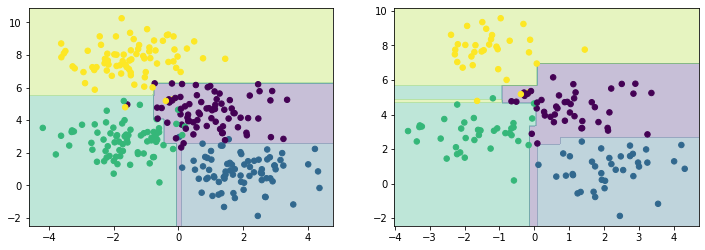
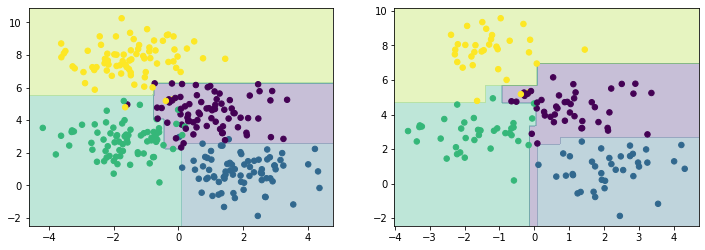
deploy: d3bfcc59244902824ea93d0028b38ea207dd7879

Changed region(s): [[0.5617, 0.336, 0.7177, 0.42], [0.2184, 0.56, 0.2809, 0.896]]

diff --git a/searchindex.js b/searchindex.js
@@ -1,1 +1,1 @@
-Search.setIndex({docnames:["bayes_exercise","bayes_theorem","bayesian_model_selection","classification","clustering","decision_trees","dimensionality_reduction","example","gmm","gradient_boosting","intro","k_means","likelihood","likelihood_code","nested_sampling","pca","pca_exercise","random_forest","some_stats","wine_pca","zreferences"],envversion:{"sphinx.domains.c":2,"sphinx.domains.changeset":1,"sphinx.domains.citation":1,"sphinx.domains.cpp":3,"sphinx.domains.index":1,"sphinx.domains.javascript":2,"sphinx.domains.math":2,"sphinx.domains.python":2,"sphinx.domains.rst":2,"sphinx.domains.std":1,"sphinx.ext.intersphinx":1,sphinx:56},filenames:["bayes_exercise.ipynb","bayes_theorem.md","bayesian_model_selection.ipynb","classification.md","clustering.md","decision_trees.ipynb","dimensionality_reduction.md","example.md","gmm.ipynb","gradient_boosting.md","intro.md","k_means.ipynb","likelihood.md","likelihood_code.ipynb","nested_sampling.ipynb","pca.ipynb","pca_exercise.ipynb","random_forest.ipynb","some_stats.ipynb","wine_pca.ipynb","zreferences.md"],objects:{},objnames:{},objtypes:{},terms:{"001":[0,14,18],"00259":20,"003193":20,"007":18,"008":18,"011":18,"01621459":20,"0184779":15,"022":20,"038":18,"038281944596418975":13,"0x7fd50d794650":16,"100":[13,17,19],"1016":20,"1039":20,"10476572":20,"1063":20,"10666":20,"1080":20,"1090":20,"1103":20,"1107":20,"1119":20,"113":20,"1134":20,"116":20,"1161":20,"122":20,"127":20,"1337":20,"1352":14,"1400":16,"14e":2,"150":5,"154":19,"164":20,"175":19,"1835238":20,"193":20,"1944":20,"1995":20,"1998":20,"199997":19,"1st":20,"200":[11,15],"2005":20,"2006":20,"2010":20,"2013":20,"2014":20,"2015":20,"2016":20,"2017":20,"2018":20,"2019":20,"2367":20,"24443085":19,"248":20,"248101":20,"2812":20,"2ln":14,"2nd":20,"300":[8,11,17],"300003":19,"3254017":20,"327":20,"32862557":15,"379":19,"395":20,"399994":19,"4526":20,"45713481":19,"49566380819342426":13,"496":18,"513":19,"525":13,"5281":20,"531":20,"538":18,"590000":19,"610001":19,"63175889":19,"639999":19,"648":20,"690002":19,"73170985":19,"735":20,"739990":19,"7489":14,"7625315":15,"773":20,"80571813":19,"825926":20,"86427209":19,"86e":2,"880005":19,"91194903":19,"919998":19,"932":13,"93701181":19,"94446029":15,"946":18,"96043195":19,"97227143":19,"98246275":19,"99139934":19,"9992006":19,"break":11,"case":[11,12],"class":[14,16],"default":14,"final":[1,4,6,14],"float":[13,18],"function":[0,1,11,12,13,14,18,19],"import":[0,2,5,6,8,11,12,13,14,15,16,17,18,19],"new":[3,5,10,19],"return":[2,11,13,14,16,18,19],"throw":16,"true":[1,2,11,13,14,18],"try":[3,6,16],"while":[0,2,11,12,16,18,19],For:[1,2,3,4,12,14,16,19],Not:1,One:0,The:[0,2,3,6,8,11,12,14,15,16,17,18,19,20],Then:[10,14],There:[0,11],These:[0,5,11,12,14,15,19],________________________________________________________________________________:0,a_rang:13,abil:2,abl:4,about:[0,1,2,5,8,11,15,17,18,19],abov:[2,5,8,16,18,19],absolute_sigma:18,access:11,account:2,achiev:[1,11,12,16,19],acid:19,added:18,addit:[2,14,16],addition:[10,19],affect:12,africa:19,against:[1,2,19],agre:2,agreement:[12,18],aim:[4,6,15,18],aip:20,air:20,algorithm:[1,11,14,15,18],align:5,all:[0,1,8,11,14,17,19],allow:[0,6,14],along:5,alpha:[11,15,19],alreadi:5,also:[0,16,19],although:[11,19],alwai:[10,11],ampl:20,anal:20,analys:18,analysi:[0,2,6,13,14,16,19,20],analyt:[2,6],andrew:10,ani:[2,8,10],anim:5,annot:15,anoth:[10,16],appear:[12,19],append:0,appl:20,appli:[4,6,11,14,17,19,20],applic:[0,10,15,17,18,19],approach:[0,1,4,8,11,15,18,20],arang:19,arbitrari:8,area:[5,17],arg:[13,14,18],argentina:19,argument:[14,16],around:2,arrai:[11,14,16,19],arrang:3,array_lik:[13,14,18],arrow:15,arrowprop:15,arrowstyl:15,artihmet:11,ask:5,aspect:[0,1,12,19],assign:[5,8,11],assist:15,assoc:20,associ:[1,8,12,14],assum:[1,12],assumpt:11,assur:19,atom:0,attempt:8,attent:19,attribut:14,australia:19,automat:19,avail:[0,4,10],averag:17,awar:11,ax0:19,ax1:19,ax2:19,axes:[5,15,17],axesimag:16,axhlin:19,axi:[5,8,11,15,19],back:[10,14],background:[0,6,14,16,18],bag:17,balanc:16,bar:19,bare:[1,14],base:[2,5,8,17],basi:11,basic:18,bay:[0,14,20],bayes_factor:14,bayesian:[1,14,20],bear:2,becaus:14,becom:12,been:1,befor:[3,4,6,11,18],beforehand:11,begin:[5,11],behind:[1,16],being:[0,2,14],belong:11,below:[0,1,2,5,8,10,11,12,14,18,19],benefit:18,best:[8,16,18],better:[0,1,2,11,17],between:[0,1,8,12,14,15,16,18,19],big:[12,18],bigg:12,bilay:20,binari:5,biolog:0,bit:[5,13],bkg:0,blob:8,blue:13,bnp:[16,20],book:10,both:[5,18],bound:[0,14],boundari:[8,11],briefli:10,bro:[15,19,20],broader:14,bs14:[15,19,20],build:[0,5],built:5,burca:20,buzzfe:5,c3ay41907j:20,cach:0,call:[5,12],campbel:[0,20],can:[0,1,2,3,5,8,10,11,12,14,15,16,17,18,19],cancel:1,cannot:[1,11,14],capabl:[8,19],captur:19,carri:18,cartesian:11,caus:11,center:[8,11,12,17],centr:[11,18],certain:[1,5,20],certainti:[1,8],chanc:[4,6],chang:[0,12,14],charact:5,characterist:11,check:11,chi:12,chile:19,chilean:19,choos:8,circul:20,circular:8,circulationaha:20,citricacid:19,classif:[5,17],classifi:[5,19],clear:[5,12,19],click:16,close:11,closer:[11,17],cluster:[8,19],cluster_centers_:11,cluster_std:[8,11,17],cmap:[13,16],co2:19,code:[0,5,11,12],collabor:10,colleagu:10,colloid:20,color:19,colorbar:13,column:19,combin:[6,16,17,19],come:[10,16],comment:16,common:[2,14],commonli:17,compar:[0,1,2,16],comparison:[0,1,2,14],compat:14,complet:[5,19],complex:[0,2,11,14,20],compon:[6,16,19,20],components_:[15,19],composit:7,computation:1,conceptu:19,conden:20,confer:20,consid:[1,2,5,16,18,19],consist:11,constrain:[12,13],contain:19,contant:19,content:19,contourf:13,contribut:19,converag:8,converg:[11,14],convert:16,convolut:16,correct:[2,17],correl:19,could:[0,1,16,19],countri:19,cours:12,covari:19,covariance_typ:8,covarience_typ:8,cover:10,crab:[16,20],creat:14,criteria:14,criterion:5,cross:19,crystallographi:20,css:[0,20],csv:19,cubitt:20,cumsum:[16,19],cumul:[16,19],curve_fit:[2,12,18],cut:5,d7613098d347:5,dat:0,data:[0,1,2,3,4,5,6,8,11,12,14,15,16,17,18,19,20],data_0:0,data_3:0,data_:0,datafram:19,datapoint:4,dataset:[0,5,6,8,11,16,17,18,19,20],ddof:19,decis:[3,17],decisiontreeclassifi:5,decomposit:[15,16,19],decreas:0,deep:15,def:[2,11,13,14,18,19],defin:[5,8,11,14,16,19],definit:16,degre:0,densiti:[0,19],depend:0,depth:[0,5],describ:[0,1,5,15,16,18,19],descript:[0,18,19],design:[5,6],despit:1,detail:[5,6,10,14,16,19],detect:[6,7,19],determin:[0,1,3,4,5,14,19,20],develop:[1,3,10,14],diag:18,diagnost:14,dict:15,differ:[0,1,2,5,8,16,18,19],diffract:4,dimens:19,dimension:[15,19],direct:15,discuss:[2,12,15,16,19],distribut:[5,8,12],divis:4,doe:[8,19],doi:20,dot:[8,15,17],down:6,download:16,draw:[2,20],drill:6,drop:19,dt_visualis:[5,17],due:[0,2,17],dynesti:[0,14],each:[0,2,5,7,8,11,14,15,16,19],easi:5,easili:0,edg:[6,7,8,19],edit:20,effect:[0,11,19],effici:5,ehtanol:19,either:[0,2,14],elast:18,eleph:20,ellips:8,enabl:[0,2],encod:[8,19],end:[14,17],energi:[13,18],enough:11,ensembl:17,enumer:[5,13,18],equal:[14,15],errorbar:[0,2,14,18],ess:10,essenti:19,est:20,estim:[11,14,15,17],etc:5,ethanol:19,european:10,evalu:[1,14,20],even:19,everi:[1,11],evid:[0,14,20],exam:14,exampl:[0,2,5,6,8,11,14,15,16,17,18,19],exercis:14,exerics:16,exp:13,expect:[8,11],experi:2,experiment:[2,12,18],explain:[2,15,16,19],explained_variance_:[15,19],explained_variance_ratio_:[16,19],explor:[15,19],extens:8,extrem:5,facecolor:13,facilit:4,fact:[8,11],factor:[0,13,14,18,20],fairer:0,fake:7,fals:[0,14],familiar:18,far:[1,15],fast:16,feasibl:1,featur:[6,16,19],feel:10,few:11,fewer:1,fig:[0,5,13,17,19],figsiz:[0,5,13,17,19],figur:[12,13,19],file:[0,16],filter:16,find:[0,1,2,6,8,10,11,14,18,19],find_clust:11,first:[0,3,5,6,16,19],firstli:14,fit:[0,5,8,11,15,16,18,19],fit_transform:19,five:5,flatten:[0,5],flexibl:4,focu:[0,6],focus:14,folinc:19,follow:[1,2,7,8,11,16,18],font:0,forbidden:2,forest:3,form:[1,15],format:[2,14,19],formul:1,forward:19,fossil:[16,20],found:[1,2,11,12,15],four:[0,20],frac:[1,12,18],fraction:16,free:10,freedom:0,friend:5,from:[0,1,2,4,5,6,7,8,10,11,14,15,16,17,18,19,20],full:[8,18],fulli:1,funtion:18,gamma:[12,13,18],gamma_rang:13,garwood:20,gaussian:[1,4,12],gaussianmixtur:8,gave:2,gener:[1,5,12],geometri:11,ger19:[0,20],gerelli:20,get:[2,5,10,14,18],getfullargspec:18,give:[5,16,17],given:[1,2,4,6,11,12,14,15,19],global:[8,11],glycerol:19,gmm:8,going:[3,4,19],goo13:[1,20],goodman:20,got:5,great:16,greater:[0,2,16],grei:16,gridspec:19,ground:18,group:[0,4],guess:[8,11],h_x:1,h_y:1,had:19,half:[5,13,18],handbook:[16,20],handful:11,happi:10,hard:[8,16],has:[0,1,15,18],have:[0,1,2,5,8,10,11,12,14,16,17,18,19],hbar:18,head:[0,19],help:[5,14,16],helper:19,henc:0,here:[0,12,16,19],herein:16,high:[16,19],hopefulli:[0,2,14],how:[1,2,6,11,12,14,16,17,19],howev:[0,1,2,14,15,16,19],http:20,hyperbol:18,hyperparamet:8,hypothesi:1,hypothet:2,idea:[1,16,17],identif:4,ignor:[0,18],iint_:1,ill:0,imag:[6,7,16,18,20],implement:[5,11],impli:19,improv:[5,11,16,19],imshow:16,inc:20,includ:[14,15,17],increas:[0,1,5],ind:19,inde:12,indefinit:10,independ:[1,19],index:19,indic:[8,14,15],individu:[0,19],inelast:18,infin:14,influenc:2,inform:[0,1,15,19],infti:1,inher:0,initi:4,initialis:8,input:[5,8],insid:16,insight:1,insinu:2,inspect:18,inspir:7,instead:14,instrument:0,integr:[1,2,14],intens:1,interest:[14,19],interfac:[0,20],interfaci:0,interpret:[1,14,19],introduc:[1,3,4,6,10,18],introduct:19,intuit:[5,17],invers:16,inverse_scal:19,inverse_transform:[16,19],invesrs:19,investig:[0,3,5,16,19],involv:[1,5,14,16],ipython:5,isn:16,issu:11,iter:[5,11,14],its:[8,11],itself:[1,5],jake:16,jci:20,journal:20,just:[11,12,14,16],kas95:[1,20],kass:[1,20],keep:16,keyword:14,kmean:11,know:2,knowledg:[1,11],known:[1,4,17],label:[0,2,3,4,5,8,11,13,14,19],lactic:19,lacticacid:19,larg:[4,11,17,19],largest:19,last:5,later:[12,15],latter:1,lawrenc:20,learn:[3,4,5,11,15,17,18],least:20,lectur:10,left:10,legend:[0,2,14,19],len:[0,10,19],length:[0,1,15],less:[2,5,8,14,19],let:[0,2,5,11,14,17,19],letter:20,lev44:[18,20],level:0,levenberg:[18,20],leverag:11,lieu:18,like:[2,5,8,14],likelihood:[0,1,2,14],likelihood_plot:13,limit:11,line:11,linear:[2,11,14,15,20],linewidth:15,linspac:13,lipid:0,list:15,literatur:2,load:19,loading_matrix:19,loadtxt:[2,13,14,18],local:14,locat:[8,11],log:[0,2,13,14],logic:17,logl:0,logl_arg:14,loglik:[2,13,14],logz:14,longer:0,look:[0,1,3,4,5,6,7,12,14,16,17,18],lorentzian:[12,13,18],lot:19,low:19,lowest:0,machin:[3,4,5,15,18],made:10,magnet:[0,20],mai:[0,1,3,5,11,12,18],main:1,major:[5,18],make:8,make_blob:[5,8,11,17],malic:19,malicacid:19,mani:[11,19],manufactur:2,marker:[0,2,14,18],marquardt:18,materi:[0,10],math:20,mathbf:[1,12,13,14],mathcal:[1,12,13],mathemat:[15,18,19],matplotlib:[0,2,5,8,11,13,14,15,16,17,18,19],matrix:1,matter:20,matyszewska:20,max:[8,16],max_depth:5,maximis:[8,11,12],maximum:[13,18],may10:[2,20],mayer:20,mccluskei:10,mean:[4,5,6,7,8,19],mean_:15,measur:[1,6,15,19],mechan:2,media:20,membership:8,memebran:0,mention:[1,14,19],meshgrid:13,met:20,metallogr:20,methanol:19,method:[0,3,4,6,11,14,15,16,17,18,19,20],methodolog:[8,14,16],metric:11,middl:17,mike:5,minima:8,minimis:12,miss:8,mixtur:4,model1:[2,14],model1_logp:14,model1_logpost:14,model1_logz:14,model2:[2,14],model2_logp:14,model2_logpost:14,model2_logz:14,model:[0,1,4,12,13,14,15,17,20],modul:[2,5,14,17,18],moment:0,monolay:[0,20],more:[0,1,2,4,5,11,14,16,19],most:[5,6,19],move:[11,18,19],much:[16,17,19],multi:6,multidimension:[8,11],multilay:0,multipl:[5,8,17],must:[11,14],n_cluster:11,n_compon:[8,15,16,19],n_components_:16,n_estim:17,n_sampl:[8,11,17],nagella:20,name:5,nameerror:5,nanostructur:20,natur:12,nazaruk:20,ndim:0,nearest:11,necessari:[1,11,19],need:[8,11,14],neg:19,nelson:20,nest:[0,1,2],nestedsampl:[0,14],network:16,neural:16,neutron:[0,6,7,10,14,16,17,18,20],new_centr:11,next:14,no_prior:14,nois:[5,15,16],non:20,none:0,normalis:[1,8,19],note:[0,2,8,12,14,17],noth:1,now:[0,11,14,17,19],np19:[0,20],number:[0,1,2,4,5,6,11,16,17,19],numebr:11,numpi:[2,8,11,13,14,15,16,18,19],obfusig:0,object:[0,1,5,14,16],objective1:0,objective2:0,observ:[16,19],obtain:[0,12,15,16],occam:1,offer:[1,2,17,18],often:4,omega:18,onc:3,one:[0,2,10,14],one_lay:0,onli:[0,1,16,19],onto:15,open:16,opposit:19,optim:[2,11,12,18],optimi:4,optimis:[0,11,12,17,18],optimium:11,option:5,order:18,org:20,orient:8,origin:19,other:[5,11,16,20],our:[1,2,3,5,6,11,14,15,16,17,18,19],out:[1,6,16,18],outsid:17,over:[1,10,15,19],overal:17,overcom:8,overfit:[2,5,17],overwhelm:19,own:11,oxford:20,packag:[0,4,14,15,16],pai:19,pair:0,pairwise_distances_argmin:11,panda:19,parallel:17,paramet:[0,1,2,12,14,18,19,20],pasca:20,paul:5,pc1:19,pc2:19,pca:[6,7,15],pcov1:2,pcov2:2,pcov:18,peak:18,perform:[5,14,19],permut:11,phase:20,phospholipid:[0,20],phrase:1,phy:20,physic:[2,20],physica:20,physrevlett:20,pictori:0,pictur:5,piec:0,pil:16,pillow:16,pleas:10,plot:[0,2,14,15,16,17,18,19],plt:[0,2,5,8,11,13,14,15,16,17,18,19],png:13,point:[0,4,5,8,11,15],polar:20,popt1:2,popt2:2,popt:[2,18],popular:6,porbabl:1,pose:0,posit:[1,14],possibl:[1,8,11,19],posterior:[1,14],potenti:[14,19],ppf:14,practic:[8,17],predict:[3,8,11],predict_proba:8,prefer:2,preprocess:19,prescott:20,present:[6,19],press:20,previou:8,previous:[1,2,12,14,16,19],princip:[6,16,19,20],principl:19,print:[0,2,14,15,18,19],print_progress:[0,14],prior:[1,2,14],prior_transform:0,priori:[1,11],prob:8,probabilist:[8,17],probabl:[1,2,6,8,12,16,17],problem:[0,1,20],procedur:11,proceed:20,process:[6,19],produc:[3,16,18,19],product:1,project:15,properti:5,propos:18,provid:0,pt_model1:14,pt_model2:14,publish:14,punc:18,pyplot:[0,2,5,8,11,13,14,15,16,17,18,19],python:[0,16,18,19,20],qam:20,qen:[7,12,13,18],quadrat:[2,14],qualit:8,quantif:[1,14,19],quantifi:[1,14],quantum:2,quasi:18,question:[5,10],quickli:[2,11,18],quiz:5,radiograph:20,rafteri:[1,20],rahman:20,rai:[4,20],rand:15,randn:[8,15],random:[3,8,11,14,15],random_st:[8,11,17],randomforestclassifi:17,rang:[1,11,19],rather:5,ratio:1,rationalis:2,razor:1,reach:[14,15],read:[16,18],read_csv:19,reader:[14,19],real:[15,19,20],recent:5,recognis:2,recommend:19,reconstruct:16,recoveri:0,reduc:[5,6,17,19],reduct:[15,16,19],refer:10,refin:18,reflect:20,reflectdataset:0,reflectometri:[0,14,20],refnx:[0,20],refnx_import:0,regard:19,region:5,regress:15,reilli:20,rel:1,relationship:[15,19],relev:[2,14],remov:19,repeat:[8,11],repeatit:11,repres:[5,8,12,16,19],reproduc:12,requir:[16,19],resolut:18,resourc:10,rest:19,resugar:19,result:[1,5,6,8,11,14,16],review:20,right:16,rise:2,rotat:19,rough:0,row:19,rudd:5,run:[14,16],run_nest:[0,14],s0031918x15130025:20,s0921:20,s1600576718017296:20,saaka:20,sai:0,said:1,same:[0,1,5],sampl:[0,1,5,11,19],sampler1:14,sampler2:14,sampler:14,save:16,savefig:13,saw:19,scale:[13,17,18,19],scatter:[0,5,8,11,13,18],school:10,scienc:[10,16,17,20],scikit:[4,11,15],scipi:[2,12,14,18],scitkit:17,score:19,search:11,seciton:7,second:5,section:[4,5,6,8,14],see:[0,2,5,8,11,14,15,16,19],seed:[14,15],seen:[1,14,16],segment:17,select:[1,10,11],seper:0,seri:5,set:[11,12,14],set_titl:5,set_xlabel:[0,19],set_xtick:19,set_xticklabel:19,set_ylabel:[0,19],set_ylim:0,set_yscal:0,seven:19,shao:20,shape:[1,5,8,11,19],share:10,shortcom:8,should:[1,2,8,16,17,19],show:[0,2,5,8,10,11,12,14,15,16,17,18,19],show_prob:17,shown:[0,2,5,8],sigma:[18,19],sigma_n:12,signal:16,similar:[8,16],simpl:[5,11,15,16,18,19],simpler:14,simplic:[18,19],sinc:[14,19],singl:[0,19,20],siv05:[1,14,20],siv98:[1,20],sivia:[1,14,20],size:[8,16,17],ski06:[14,20],skill:[14,20],sklearn:[5,8,11,15,16,17,19],sld:0,sld_profil:0,slide:10,slightli:1,slim:5,slow:11,smaller:[8,17],smild:[15,19,20],smooth:[0,8],solut:[0,11,12,20],some:[0,1,3,5,6,7,8,10,11,12,14,15,16],someth:10,sophist:16,sourc:[10,19],south:19,space:[4,11],spallat:10,specif:[1,12,17],specifi:16,sphere:8,split:5,spread:19,sqrt:[15,18,19],squar:[2,13,14,15,18,20],standard:[8,19],start:[5,8,14,19],stat:[14,20],state:8,statis:12,statist:7,std:19,step:[8,11],still:1,stop:14,strang:5,strong:[0,1],structur:[0,20],subclass:4,subject:[10,14],subplot:[0,5,17,19],subset:[5,16],substanti:1,success:1,suffer:8,suggest:[5,10,14],suit:2,sum:[1,2,13,14],sum_n:12,support:20,surfact:20,synthes:7,system:[0,19],t_pca:15,tabl:[1,19],tail:0,take:[0,1,11,14,16,19],tartarica:19,tasev:20,task:16,techniqu:0,tend:5,text:1,textbook:14,than:[1,5,11,14,16,17,19],thei:[5,8,14,19],them:3,therefor:[0,1,3,14,16,18],thi:[0,1,2,3,4,5,6,7,8,10,11,12,14,15,16,17,18,19],thick:0,thing:16,think:1,those:[16,19],three:[0,16,19],through:[10,15,18],thu:1,tick_param:19,tiff:16,tight_layout:[13,19],time:[1,10,20],todo:10,togeth:[4,19],toi:15,tool:[2,6,16],top15:[0,20],toperverg:20,total:[0,19],totalacid:19,touch:10,toward:11,traceback:5,tradit:[3,4,5,18,19],train:[5,16],transfer:[13,18],transform:[14,15,16,19],transit:20,transpar:13,tree:[3,17],trend:19,truli:1,tutori:20,twice:[2,14],two:[0,1,2,14,15,19],two_lay:0,txt:[2,13,14,18],typic:[0,1,6,19],unaffect:16,uncertainti:[12,17],under:1,underpin:15,understand:[1,2,14,15,16,19],uniform:[14,18],uninform:14,univari:19,univers:20,unlabel:11,unnormalis:19,unpack:[2,13,14,18],unsupervis:[4,15],until:[8,14],updat:[8,11],url:20,use:[0,1,2,3,8,14,16,18,19],used:[2,7,8,12,14,16,18,19],useful:4,uses:5,using:[1,5,8,11,14,16,18,19,20],util:14,utilis:[5,17],vairanc:15,valu:[0,2,12,13,14,15,16,18,19],van16:[5,11,16,19,20],vanderpla:[5,11,16,19,20],vari:[0,1,5,12,19],variabl:19,varianc:[15,16,19],variat:[6,19],varieti:[0,1],varying_paramet:0,vector:[1,15,19],veri:[1,5,8,11],versa:1,vice:1,view:8,visiualis:15,visual:15,visualis:[0,2,5,14,16,19],volatil:19,volatilea:19,wai:[0,5],water:[0,20],webster:20,weight:8,welcom:10,well:[12,16,19],were:[7,12,19],what:5,when:[4,11,14,15],where:[0,1,2,3,5,12,14,15,16,18,19],which:[0,1,4,5,8,10,11,15,16,17,19],white:13,whole:0,width:[13,18,19],wine:[7,19],wine_data:19,within:[0,5,11,14,19],without:16,won:14,work:[0,1,5,10,11],workshop:[1,10],world:15,worth:[1,14],would:[0,5,14,15,19],write:[1,18],written:[1,11],x_0:[12,18],x_new:19,x_pca:[15,19],x_stretch:8,xlabel:[0,2,13,14,15,16,18,19],xscale:14,y_err:0,y_mean:11,y_n:12,y_true:[8,11],yang:20,yerr:[2,13,14,18],yet:[19,20],ylabel:[0,2,13,14,15,16,18,19],ylim:19,you:[0,4,5,6,10,14,16,18],zenodo:20,zero:5,zeros_lik:13,zip:15,zorder:18},titles:["How many layers?","Bayes\u2019 theorem","Bayesian model selection","Classification","Clustering","Decision trees","Dimensionality reduction","The example data","Gaussian Mixture Models","Gradient boosting","Traditional Machine Learning Methods","<em>k</em>-Means Clustering","Likelihood","Likelihood Code","Nested sampling","Principal Component Analysis","PCA for edge detection","Random Forests","Some statistics","PCA in Action","References"],titleterms:{The:[1,7],action:19,analysi:[15,18],bay:1,bayesian:2,boost:9,classif:3,cluster:[4,11],code:13,compon:15,contributor:10,data:7,decis:5,depend:18,detect:16,dimension:6,edg:16,evid:1,exampl:7,exercis:[0,16],factor:1,forest:17,gaussian:8,gradient:9,how:0,layer:0,learn:10,likelihood:[12,13],machin:10,mani:0,mean:11,method:10,mixtur:8,model:[2,8,18],nest:14,pca:[16,19],princip:15,random:17,reduct:6,refer:20,sampl:14,select:2,some:18,statist:18,theorem:1,tradit:10,tree:5}})
+Search.setIndex({docnames:["bayes_exercise","bayes_theorem","bayesian_model_selection","classification","clustering","decision_trees","dimensionality_reduction","example","gmm","gradient_boosting","intro","k_means","likelihood","likelihood_code","nested_sampling","pca","pca_exercise","random_forest","some_stats","wine_pca","zreferences"],envversion:{"sphinx.domains.c":2,"sphinx.domains.changeset":1,"sphinx.domains.citation":1,"sphinx.domains.cpp":3,"sphinx.domains.index":1,"sphinx.domains.javascript":2,"sphinx.domains.math":2,"sphinx.domains.python":2,"sphinx.domains.rst":2,"sphinx.domains.std":1,"sphinx.ext.intersphinx":1,sphinx:56},filenames:["bayes_exercise.ipynb","bayes_theorem.md","bayesian_model_selection.ipynb","classification.md","clustering.md","decision_trees.ipynb","dimensionality_reduction.md","example.md","gmm.ipynb","gradient_boosting.md","intro.md","k_means.ipynb","likelihood.md","likelihood_code.ipynb","nested_sampling.ipynb","pca.ipynb","pca_exercise.ipynb","random_forest.ipynb","some_stats.ipynb","wine_pca.ipynb","zreferences.md"],objects:{},objnames:{},objtypes:{},terms:{"001":[0,14,18],"00259":20,"003193":20,"007":18,"008":18,"011":18,"01621459":20,"0184779":15,"022":20,"038":18,"038281944596418975":13,"0x7efff3c12810":16,"100":[13,17,19],"1016":20,"1039":20,"10476572":20,"1063":20,"10666":20,"1080":20,"1090":20,"1103":20,"1107":20,"1119":20,"113":20,"1134":20,"116":20,"1161":20,"122":20,"127":20,"1337":20,"1352":14,"1400":16,"14e":2,"150":5,"154":19,"164":20,"175":19,"1835238":20,"193":20,"1944":20,"1995":20,"1998":20,"199997":19,"1st":20,"200":[11,15],"2005":20,"2006":20,"2010":20,"2013":20,"2014":20,"2015":20,"2016":20,"2017":20,"2018":20,"2019":20,"2367":20,"24443085":19,"248":20,"248101":20,"2812":20,"2ln":14,"2nd":20,"300":[5,8,11,17],"300003":19,"3254017":20,"327":20,"32862557":15,"379":19,"395":20,"399994":19,"4526":20,"45713481":19,"49566380819342426":13,"496":18,"513":19,"525":13,"5281":20,"531":20,"538":18,"590000":19,"610001":19,"63175889":19,"639999":19,"648":20,"690002":19,"73170985":19,"735":20,"739990":19,"7489":14,"7625315":15,"773":20,"80571813":19,"825926":20,"86427209":19,"86e":2,"880005":19,"91194903":19,"919998":19,"932":13,"93701181":19,"94446029":15,"946":18,"96043195":19,"97227143":19,"98246275":19,"99139934":19,"9992006":19,"break":11,"case":[11,12],"class":[14,16],"default":14,"final":[1,4,6,14],"float":[13,18],"function":[0,1,11,12,13,14,18,19],"import":[0,2,5,6,8,11,12,13,14,15,16,17,18,19],"new":[3,5,10,19],"return":[2,11,13,14,16,18,19],"throw":16,"true":[1,2,11,13,14,18],"try":[3,6,16],"while":[0,2,11,12,16,18,19],For:[1,2,3,4,12,14,16,19],Not:1,One:0,The:[0,2,3,6,8,11,12,14,15,16,17,18,19,20],Then:[10,14],There:[0,11],These:[0,5,11,12,14,15,19],________________________________________________________________________________:0,a_rang:13,abil:2,abl:4,about:[0,1,2,5,8,11,15,17,18,19],abov:[2,5,8,16,18,19],absolute_sigma:18,access:11,account:2,achiev:[1,11,12,16,19],acid:19,added:18,addit:[2,14,16],addition:[10,19],affect:12,africa:19,against:[1,2,19],agre:2,agreement:[12,18],aim:[4,6,15,18],aip:20,air:20,algorithm:[1,11,14,15,18],align:5,all:[0,1,8,11,14,17,19],allow:[0,6,14],along:5,alpha:[11,15,19],alreadi:5,also:[0,16,19],although:[11,19],alwai:[10,11],ampl:20,anal:20,analys:18,analysi:[0,2,6,13,14,16,19,20],analyt:[2,6],andrew:10,ani:[2,8,10],anim:5,annot:15,anoth:[10,16],appear:[12,19],append:0,appl:20,appli:[4,6,11,14,17,19,20],applic:[0,10,15,17,18,19],approach:[0,1,4,8,11,15,18,20],arang:19,arbitrari:8,area:[5,17],arg:[13,14,18],argentina:19,argument:[14,16],around:2,arrai:[11,14,16,19],arrang:3,array_lik:[13,14,18],arrow:15,arrowprop:15,arrowstyl:15,artihmet:11,ask:5,aspect:[0,1,12,19],assign:[5,8,11],assist:15,assoc:20,associ:[1,8,12,14],assum:[1,12],assumpt:11,assur:19,atom:0,attempt:8,attent:19,attribut:14,australia:19,automat:19,avail:[0,4,10],averag:17,awar:11,ax0:19,ax1:19,ax2:19,axes:[5,15,17],axesimag:16,axhlin:19,axi:[5,8,11,15,19],back:[10,14],background:[0,6,14,16,18],bag:17,balanc:16,bar:19,bare:[1,14],base:[2,5,8,17],basi:11,basic:18,bay:[0,14,20],bayes_factor:14,bayesian:[1,14,20],bear:2,becaus:14,becom:12,been:1,befor:[3,4,6,11,18],beforehand:11,begin:[5,11],behind:[1,16],being:[0,2,14],belong:11,below:[0,1,2,5,8,10,11,12,14,18,19],benefit:18,best:[8,16,18],better:[0,1,2,11,17],between:[0,1,8,12,14,15,16,18,19],big:[12,18],bigg:12,bilay:20,binari:5,biolog:0,bit:[5,13],bkg:0,blob:8,blue:13,bnp:[16,20],book:10,both:[5,18],bound:[0,14],boundari:[8,11],briefli:10,bro:[15,19,20],broader:14,bs14:[15,19,20],build:5,built:5,burca:20,buzzfe:5,c3ay41907j:20,call:12,campbel:[0,20],can:[0,1,2,3,5,8,10,11,12,14,15,16,17,18,19],cancel:1,cannot:[1,11,14],capabl:[8,19],captur:19,carri:18,cartesian:11,caus:11,center:[5,8,11,12,17],centr:[11,18],certain:[1,5,20],certainti:[1,8],chanc:[4,6],chang:[0,12,14],charact:5,characterist:11,check:11,chi:12,chile:19,chilean:19,choos:8,circul:20,circular:8,circulationaha:20,citricacid:19,classif:[5,17],classifi:[5,19],clear:[5,12,19],click:16,close:11,closer:[11,17],cluster:[8,19],cluster_centers_:11,cluster_std:[5,8,11,17],cmap:[13,16],co2:19,code:[0,5,11,12],collabor:10,colleagu:10,colloid:20,color:19,colorbar:13,column:19,com:18,combin:[6,16,17,19],come:[10,16],comic:18,comment:16,common:[2,14],commonli:17,compar:[0,1,2,16],comparison:[0,1,2,14],compat:14,complet:[5,19],complex:[0,2,11,14,20],compon:[6,16,19,20],components_:[15,19],composit:7,computation:1,conceptu:19,conden:20,confer:20,consid:[1,2,5,16,18,19],consist:11,constrain:[12,13],contain:19,contant:19,content:19,contourf:13,contribut:19,converag:8,converg:[11,14],convert:16,convolut:16,correct:[2,17],correl:19,could:[0,1,16,19],countri:19,cours:12,covari:19,covariance_typ:8,covarience_typ:8,cover:10,crab:[16,20],creat:14,criteria:14,criterion:5,cross:19,crystallographi:20,css:[0,20],csv:19,cubitt:20,cumsum:[16,19],cumul:[16,19],curve_fit:[2,12,18],cut:5,dat:0,data:[0,1,2,3,4,5,6,8,11,12,14,15,16,17,18,19,20],data_0:0,data_3:0,data_:0,datafram:19,datapoint:4,dataset:[0,5,6,8,11,16,17,18,19,20],ddof:19,decis:[3,17],decisiontreeclassifi:5,decomposit:[15,16,19],decreas:0,deep:15,def:[2,11,13,14,18,19],defin:[8,11,14,16,19],definit:16,degre:0,densiti:[0,19],depend:0,depth:[0,5],describ:[0,1,5,15,16,18,19],descript:[0,18,19],design:[5,6],despit:1,detail:[5,6,10,14,16,19],detect:[6,7,19],determin:[0,1,3,4,5,14,19,20],develop:[1,3,10,14],diag:18,diagnost:14,dict:15,differ:[0,1,2,5,8,16,18,19],diffract:4,dimens:19,dimension:[15,19],direct:15,discuss:[2,12,15,16,19],distribut:[5,8,12],divis:4,doe:[8,19],doi:20,dot:[8,15,17],down:6,download:16,draw:[2,20],drill:6,drop:19,dt_visualis:[5,17],due:[0,2,17],dynesti:[0,14],each:[0,2,5,7,8,11,14,15,16,19],easi:5,easili:0,edg:[6,7,8,19],edit:20,effect:[0,11,19],effici:5,ehtanol:19,either:[0,2,14],elast:18,eleph:20,ellips:8,enabl:[0,2],encod:[8,19],end:[14,17],energi:[13,18],enough:11,ensembl:17,enumer:[5,13,18],equal:[14,15],errorbar:[0,2,14,18],ess:10,essenti:19,est:20,estim:[11,14,15,17],etc:5,ethanol:19,european:10,evalu:[1,14,20],even:19,everi:[1,11],evid:[0,14,20],exam:14,exampl:[0,2,5,6,8,11,14,15,16,17,18,19],exercis:14,exerics:16,exp:13,expect:[8,11],experi:2,experiment:[2,12,18],explain:[2,15,16,19],explained_variance_:[15,19],explained_variance_ratio_:[16,19],explor:[15,19],extens:8,extrem:5,facecolor:13,facilit:4,fact:[8,11],factor:[0,13,14,18,20],fairer:0,fake:7,fals:[0,14],familiar:18,far:[1,15],fast:16,feasibl:1,featur:[6,16,19],feel:10,few:11,fewer:1,fig:[0,5,13,17,19],figsiz:[0,5,13,17,19],figur:[12,13,19],file:[0,16],filter:16,find:[0,1,2,6,8,10,11,14,18,19],find_clust:11,first:[0,3,5,6,16,19],firstli:14,fit:[0,5,8,11,15,16,18,19],fit_transform:19,five:5,flatten:[0,5],flexibl:4,focu:[0,6],focus:14,folinc:19,follow:[1,2,7,8,11,16,18],forbidden:2,forest:3,form:[1,15],format:[2,14,19],formul:1,forward:19,fossil:[16,20],found:[1,2,11,12,15],four:[0,20],frac:[1,12,18],fraction:16,free:10,freedom:0,friend:5,from:[0,1,2,4,5,6,7,8,10,11,14,15,16,17,18,19,20],full:[8,18],fulli:1,funtion:18,gamma:[12,13,18],gamma_rang:13,garwood:20,gaussian:[1,4,12],gaussianmixtur:8,gave:2,gener:[1,5,12],geometri:11,ger19:[0,20],gerelli:20,get:[2,5,10,14,18],getfullargspec:18,give:[5,16,17],given:[1,2,4,6,11,12,14,15,19],global:[8,11],glycerol:19,gmm:8,going:[3,4,19],goo13:[1,20],goodman:20,got:5,great:16,greater:[0,2,16],grei:16,gridspec:19,ground:18,group:[0,4],guess:[8,11],h_x:1,h_y:1,had:19,half:[5,13,18],handbook:[16,20],handful:11,happi:10,hard:[8,16],has:[0,1,15,18],have:[0,1,2,5,8,10,11,12,14,16,17,18,19],hbar:18,head:[0,19],help:[5,14,16],helper:19,henc:0,here:[0,12,16,19],herein:16,high:[16,19],hopefulli:[0,2,14],how:[1,2,6,11,12,14,16,17,19],howev:[0,1,2,14,15,16,19],http:[18,20],hyperbol:18,hyperparamet:8,hypothesi:1,hypothet:2,idea:[1,16,17],identif:4,ignor:[0,18],iint_:1,ill:0,imag:[6,7,16,18,20],implement:[5,11],impli:19,improv:[5,11,16,19],imshow:16,inc:20,includ:[14,15,17],increas:[0,1,5],ind:19,inde:12,indefinit:10,independ:[1,19],index:19,indic:[8,14,15],individu:[0,19],inelast:18,infin:14,influenc:2,inform:[0,1,15,19],infti:1,inher:0,initi:4,initialis:8,input:8,insid:16,insight:1,insinu:2,inspect:18,inspir:7,instagram:18,instead:14,instrument:0,integr:[1,2,14],intens:1,interest:[14,19],interfac:[0,20],interfaci:0,interpret:[1,14,19],introduc:[1,3,4,6,10,18],introduct:19,intuit:[5,17],invers:16,inverse_scal:19,inverse_transform:[16,19],invesrs:19,investig:[0,3,5,16,19],involv:[1,5,14,16],isn:16,issu:11,iter:[5,11,14],its:[8,11],itself:[1,5],jake:16,jci:20,journal:20,just:[11,12,14,16],kas95:[1,20],kass:[1,20],keep:16,keyword:14,kmean:11,know:2,knowledg:[1,11],known:[1,4,17],label:[0,2,3,4,5,8,11,13,14,19],lactic:19,lacticacid:19,larg:[4,11,17,19],largest:19,later:[12,15],latter:1,lawrenc:20,learn:[3,4,5,11,15,17,18],least:20,lectur:10,left:10,legend:[0,2,14,19],len:[0,10,19],length:[0,1,15],less:[2,5,8,14,19],let:[0,2,5,11,14,17,19],letter:20,lev44:[18,20],level:0,levenberg:[18,20],leverag:11,lieu:18,like:[2,5,8,14],likelihood:[0,1,2,14],likelihood_plot:13,limit:11,line:11,linear:[2,11,14,15,20],linewidth:15,linspac:13,lipid:0,list:15,literatur:2,load:19,loading_matrix:19,loadtxt:[2,13,14,18],local:14,locat:[8,11],log:[0,2,13,14],logic:17,logl:0,logl_arg:14,loglik:[2,13,14],logz:14,longer:0,look:[0,1,3,4,5,6,7,12,14,16,17,18],lorentzian:[12,13,18],lot:19,low:19,lowest:0,machin:[3,4,5,15,18],made:10,magnet:[0,20],mai:[1,3,5,11,12,18],main:1,major:[5,18],make:8,make_blob:[5,8,11,17],malic:19,malicacid:19,mani:[11,19],manufactur:2,marker:[0,2,14,18],marquardt:18,materi:[0,10],math:20,mathbf:[1,12,13,14],mathcal:[1,12,13],mathemat:[15,18,19],matplotlib:[0,2,5,8,11,13,14,15,16,17,18,19],matrix:1,matter:20,matyszewska:20,max:[8,16],max_depth:5,maximis:[8,11,12],maximum:[13,18],may10:[2,20],mayer:20,mccluskei:10,mean:[4,5,6,7,8,19],mean_:15,measur:[1,6,15,19],mechan:2,media:20,membership:8,memebran:0,mention:[1,14,19],meshgrid:13,met:20,metallogr:20,methanol:19,method:[0,3,4,6,11,14,15,16,17,18,19,20],methodolog:[8,14,16],metric:11,middl:17,mike:5,minima:8,minimis:12,miss:8,mixtur:4,model1:[2,14],model1_logp:14,model1_logpost:14,model1_logz:14,model2:[2,14],model2_logp:14,model2_logpost:14,model2_logz:14,model:[0,1,4,12,13,14,15,17,20],modul:[2,14,17,18],monolay:[0,20],more:[0,1,2,4,5,11,14,16,19],most:[6,19],move:[11,18,19],much:[16,17,19],multi:6,multidimension:[8,11],multilay:0,multipl:[5,8,17],must:[11,14],n_cluster:11,n_compon:[8,15,16,19],n_components_:16,n_estim:17,n_sampl:[5,8,11,17],nagella:20,nanostructur:20,natur:12,nazaruk:20,ndim:0,nearest:11,necessari:[1,11,19],need:[8,11,14],neg:19,nelson:20,nest:[0,1,2],nestedsampl:[0,14],network:16,neural:16,neutron:[0,6,7,10,14,16,17,18,20],new_centr:11,next:14,no_prior:14,nois:[5,15,16],non:20,none:0,normalis:[1,8,19],note:[0,2,8,12,14,17],noth:1,now:[0,11,14,17,19],np19:[0,20],number:[0,1,2,4,5,6,11,16,17,19],numebr:11,numpi:[2,8,11,13,14,15,16,18,19],obfusig:0,object:[0,1,5,14,16],objective1:0,objective2:0,observ:[16,19],obtain:[0,12,15,16],occam:1,offer:[1,2,17,18],often:4,omega:18,onc:3,one:[0,2,10,14],one_lay:0,onli:[0,1,16,19],onto:15,open:16,opposit:19,optim:[2,11,12,18],optimi:4,optimis:[0,11,12,17,18],optimium:11,option:5,order:18,org:20,orient:8,origin:[18,19],other:[5,11,16,20],our:[1,2,3,5,6,11,14,15,16,17,18,19],out:[1,6,16,18],outsid:17,over:[1,10,15,19],overal:17,overcom:8,overfit:[2,5,17],overwhelm:19,own:11,oxford:20,packag:[0,4,14,15,16],pai:19,pair:0,pairwise_distances_argmin:11,panda:19,parallel:17,paramet:[0,1,2,12,14,18,19,20],pasca:20,paul:5,pc1:19,pc2:19,pca:[6,7,15],pcov1:2,pcov2:2,pcov:18,peak:18,perform:[5,14,19],permut:11,phase:20,phospholipid:[0,20],phrase:1,phy:20,physic:[2,20],physica:20,physrevlett:20,pictori:0,pictur:5,piec:0,pil:16,pillow:16,pleas:10,plot:[0,2,14,15,16,17,18,19],plt:[0,2,5,8,11,13,14,15,16,17,18,19],png:13,point:[0,4,5,8,11,15],polar:20,popt1:2,popt2:2,popt:[2,18],popular:6,porbabl:1,pose:0,posit:[1,14],possibl:[1,8,11,19],posterior:[1,14],potenti:[14,19],ppf:14,practic:[8,17],predict:[3,8,11],predict_proba:8,prefer:2,preprocess:19,prescott:20,present:[6,19],press:20,previou:8,previous:[1,2,12,14,16,19],princip:[6,16,19,20],principl:19,print:[0,2,14,15,18,19],print_progress:[0,14],prior:[1,2,14],prior_transform:0,priori:[1,11],prob:8,probabilist:[8,17],probabl:[1,2,6,8,12,16,17],problem:[0,1,20],procedur:11,proceed:20,process:[6,19],produc:[3,16,18,19],product:1,project:15,properti:5,propos:18,provid:0,pt_model1:14,pt_model2:14,publish:14,punc:18,pyplot:[0,2,5,8,11,13,14,15,16,17,18,19],python:[0,16,18,19,20],qam:20,qen:[7,12,13,18],quadrat:[2,14],qualit:8,quantif:[1,14,19],quantifi:[1,14],quantum:2,quasi:18,question:[5,10],quickli:[2,11,18],quiz:5,radiograph:20,rafteri:[1,20],rahman:20,rai:[4,20],rand:15,randn:[8,15],random:[3,8,11,14,15],random_st:[5,8,11,17],randomforestclassifi:17,rang:[1,11,19],rather:5,ratio:1,rationalis:2,razor:1,reach:[14,15],read:[16,18],read_csv:19,reader:[14,19],real:[15,19,20],recognis:2,recommend:19,reconstruct:16,recoveri:0,reduc:[5,6,17,19],reduct:[15,16,19],refer:10,refin:18,reflect:20,reflectdataset:0,reflectometri:[0,14,20],refnx:[0,20],refnx_import:0,regard:19,region:5,regress:15,reilli:20,rel:1,relationship:[15,19],relev:[2,14],remov:19,repeat:[8,11],repeatit:11,repres:[5,8,12,16,19],reproduc:12,requir:[16,19],resolut:18,resourc:10,rest:19,resugar:19,result:[1,5,6,8,11,14,16],review:20,right:16,rise:2,rotat:19,rough:0,row:19,rudd:5,run:[14,16],run_nest:[0,14],s0031918x15130025:20,s0921:20,s1600576718017296:20,saaka:20,sai:0,said:1,same:[0,1,5],sampl:[0,1,5,11,19],sampler1:14,sampler2:14,sampler:14,sandserif:18,sandserifcom:18,save:16,savefig:13,saw:19,scale:[13,17,18,19],scatter:[0,5,8,11,13,18],school:10,scienc:[10,16,17,20],scikit:[4,11,15],scipi:[2,12,14,18],scitkit:17,score:19,search:11,seciton:7,second:5,section:[4,5,6,8,14],see:[0,2,5,8,11,14,15,16,19],seed:[14,15],seen:[1,14,16],segment:17,select:[1,10,11],seper:0,seri:5,set:[11,12,14],set_titl:5,set_xlabel:[0,19],set_xtick:19,set_xticklabel:19,set_ylabel:[0,19],set_ylim:0,set_yscal:0,seven:19,shao:20,shape:[1,5,8,11,19],share:10,shortcom:8,should:[1,2,8,16,17,19],show:[0,2,5,8,10,11,12,14,15,16,17,18,19],show_prob:17,shown:[0,2,5,8],sigma:[18,19],sigma_n:12,signal:16,similar:[8,16],simpl:[5,11,15,16,18,19],simpler:14,simplic:[18,19],sinc:[14,19],singl:[0,19,20],siv05:[1,14,20],siv98:[1,20],sivia:[1,14,20],size:[8,16,17],ski06:[14,20],skill:[14,20],sklearn:[5,8,11,15,16,17,19],sld:0,sld_profil:0,slide:10,slightli:1,slim:5,slow:11,smaller:[8,17],smild:[15,19,20],smooth:[0,8],solut:[0,11,12,20],some:[0,1,3,5,6,7,8,10,11,12,14,15,16],someth:10,sophist:16,sourc:[10,19],south:19,space:[4,11],spallat:10,specif:[1,12,17],specifi:16,sphere:8,split:5,spread:19,sqrt:[15,18,19],squar:[2,13,14,15,18,20],standard:[8,19],start:[5,8,14,19],stat:[14,20],state:8,statist:[7,12],std:19,step:[8,11],still:1,stop:14,strang:5,strong:[0,1],structur:[0,20],subclass:4,subject:[10,14],subplot:[0,5,17,19],subset:[5,16],substanti:1,success:1,suffer:8,suggest:[5,10,14],suit:2,sum:[1,2,13,14],sum_n:12,support:20,surfact:20,synthes:7,system:[0,19],t_pca:15,tabl:[1,19],tail:0,take:[0,1,11,14,16,19],tartarica:19,tasev:20,task:16,techniqu:0,tend:5,text:1,textbook:14,than:[1,5,11,14,16,17,19],thei:[5,8,14,19],them:3,therefor:[0,1,3,14,16,18],thi:[0,1,2,3,4,5,6,7,8,10,11,12,14,15,16,17,18,19],thick:0,thing:16,think:1,those:[16,19],three:[0,16,19],through:[10,15,18],thu:1,tick_param:19,tiff:16,tight_layout:[13,19],time:[1,10,20],todo:10,togeth:[4,19],toi:15,tool:[2,6,16],top15:[0,20],toperverg:20,total:[0,19],totalacid:19,touch:10,toward:11,tradit:[3,4,5,18,19],train:[5,16],transfer:[13,18],transform:[14,15,16,19],transit:20,transpar:13,tree:[3,17],trend:19,truli:1,tutori:20,twice:[2,14],two:[0,1,2,14,15,19],two_lay:0,txt:[2,13,14,18],typic:[0,1,6,19],unaffect:16,uncertainti:[12,17],under:1,underpin:15,understand:[1,2,14,15,16,19],uniform:[14,18],uninform:14,univari:19,univers:20,unlabel:11,unnormalis:19,unpack:[2,13,14,18],unsupervis:[4,15],until:[8,14],updat:[8,11],url:20,use:[0,1,2,3,8,14,16,18,19],used:[2,7,8,12,14,16,18,19],useful:4,uses:5,using:[1,5,8,11,14,16,18,19,20],util:14,utilis:[5,17],vairanc:15,valu:[0,2,12,13,14,15,16,18,19],van16:[5,11,16,19,20],vanderpla:[5,11,16,19,20],vari:[0,1,5,12,19],variabl:19,varianc:[15,16,19],variat:[6,19],varieti:[0,1],varying_paramet:0,vector:[1,15,19],veri:[1,5,8,11],versa:1,vice:1,view:8,visiualis:15,visual:15,visualis:[0,2,5,14,16,19],volatil:19,volatilea:19,wai:[0,5],water:[0,20],webster:20,weight:8,welcom:10,well:[12,16,19],were:[7,12,19],what:5,when:[4,11,14,15],where:[0,1,2,3,5,12,14,15,16,18,19],which:[0,1,4,5,8,10,11,15,16,17,19],white:13,whole:0,width:[13,18,19],wine:[7,19],wine_data:19,within:[0,5,11,14,19],without:16,won:14,work:[0,1,5,10,11],workshop:[1,10],world:15,worth:[1,14],would:[0,5,14,15,19],write:[1,18],written:[1,11],www:18,x_0:[12,18],x_new:19,x_pca:[15,19],x_stretch:8,xlabel:[0,2,13,14,15,16,18,19],xscale:14,y_err:0,y_mean:11,y_n:12,y_true:[8,11],yang:20,yerr:[2,13,14,18],yet:[19,20],ylabel:[0,2,13,14,15,16,18,19],ylim:19,you:[0,4,5,6,10,14,16,18],zenodo:20,zero:5,zeros_lik:13,zip:15,zorder:18},titles:["How many layers?","Bayes\u2019 theorem","Bayesian model selection","Classification","Clustering","Decision trees","Dimensionality reduction","The example data","Gaussian Mixture Models","Gradient boosting","Traditional Machine Learning Methods","<em>k</em>-Means Clustering","Likelihood","Likelihood Code","Nested sampling","Principal Component Analysis","PCA for edge detection","Random Forests","Some statistics","PCA in Action","References"],titleterms:{The:[1,7],action:19,analysi:[15,18],bay:1,bayesian:2,boost:9,classif:3,cluster:[4,11],code:13,compon:15,contributor:10,data:7,decis:5,depend:18,detect:16,dimension:6,edg:16,evid:1,exampl:7,exercis:[0,16],factor:1,forest:17,gaussian:8,gradient:9,how:0,layer:0,learn:10,likelihood:[12,13],machin:10,mani:0,mean:11,method:10,mixtur:8,model:[2,8,18],nest:14,pca:[16,19],princip:15,random:17,reduct:6,refer:20,sampl:14,select:2,some:18,statist:18,theorem:1,tradit:10,tree:5}})

diff --git a/decision_trees.html b/decision_trees.html
@@ -327,21 +327,14 @@ In traditional machine learning implementations, the questions that we ask gener
 Let’s have a look at what that means.</p>
 <div class="cell docutils container">
 <div class="cell_input docutils container">
-<div class="highlight-ipython3 notranslate"><div class="highlight"><pre><span></span><span class="n">plt</span><span class="o">.</span><span class="n">scatter</span><span class="p">(</span><span class="n">X</span><span class="p">[:,</span> <span class="mi">0</span><span class="p">],</span> <span class="n">X</span><span class="p">[:,</span> <span class="mi">1</span><span class="p">],</span> <span class="n">c</span><span class="o">=</span><span class="n">y</span><span class="p">,</span> <span class="n">s</span><span class="o">=</span><span class="mi">50</span><span class="p">)</span>
+<div class="highlight-ipython3 notranslate"><div class="highlight"><pre><span></span><span class="n">X</span><span class="p">,</span> <span class="n">y</span> <span class="o">=</span> <span class="n">make_blobs</span><span class="p">(</span><span class="n">n_samples</span><span class="o">=</span><span class="mi">300</span><span class="p">,</span> <span class="n">centers</span><span class="o">=</span><span class="mi">4</span><span class="p">,</span> <span class="n">random_state</span><span class="o">=</span><span class="mi">0</span><span class="p">,</span> <span class="n">cluster_std</span><span class="o">=</span><span class="mf">1.0</span><span class="p">)</span>
+<span class="n">plt</span><span class="o">.</span><span class="n">scatter</span><span class="p">(</span><span class="n">X</span><span class="p">[:,</span> <span class="mi">0</span><span class="p">],</span> <span class="n">X</span><span class="p">[:,</span> <span class="mi">1</span><span class="p">],</span> <span class="n">c</span><span class="o">=</span><span class="n">y</span><span class="p">,</span> <span class="n">s</span><span class="o">=</span><span class="mi">50</span><span class="p">)</span>
 <span class="n">plt</span><span class="o">.</span><span class="n">show</span><span class="p">()</span>
 </pre></div>
 </div>
 </div>
 <div class="cell_output docutils container">
-<div class="output traceback highlight-ipythontb notranslate"><div class="highlight"><pre><span></span><span class="gt">---------------------------------------------------------------------------</span>
-<span class="ne">NameError</span><span class="g g-Whitespace">                                 </span>Traceback (most recent call last)
-<span class="o">&lt;</span><span class="n">ipython</span><span class="o">-</span><span class="nb">input</span><span class="o">-</span><span class="mi">2</span><span class="o">-</span><span class="n">d7613098d347</span><span class="o">&gt;</span> <span class="ow">in</span> <span class="o">&lt;</span><span class="n">module</span><span class="o">&gt;</span>
-<span class="ne">----&gt; </span><span class="mi">1</span> <span class="n">plt</span><span class="o">.</span><span class="n">scatter</span><span class="p">(</span><span class="n">X</span><span class="p">[:,</span> <span class="mi">0</span><span class="p">],</span> <span class="n">X</span><span class="p">[:,</span> <span class="mi">1</span><span class="p">],</span> <span class="n">c</span><span class="o">=</span><span class="n">y</span><span class="p">,</span> <span class="n">s</span><span class="o">=</span><span class="mi">50</span><span class="p">)</span>
-<span class="g g-Whitespace">      </span><span class="mi">2</span> <span class="n">plt</span><span class="o">.</span><span class="n">show</span><span class="p">()</span>
-
-<span class="ne">NameError</span>: name &#39;X&#39; is not defined
-</pre></div>
-</div>
+<img alt="_images/decision_trees_2_0.png" src="_images/decision_trees_2_0.png" />
 </div>
 </div>
 <p>A simple decision tree built on this data would iteratively split the data along the axes based on some criterion and assign a label to the new region based on the majority of the points within it.

diff --git a/some_stats.html b/some_stats.html
@@ -335,6 +335,7 @@
 <h1>Some statistics<a class="headerlink" href="#some-statistics" title="Permalink to this headline">¶</a></h1>
 <center>
   <img src="https://miro.medium.com/max/500/1*x7P7gqjo8k2_bj2rTQWAfg.jpeg" alt="A meme about machine learning being a fancy name for statistics" class="bg-primary" width="500px">
+    <i>Original comic from [sandserif](https://www.instagram.com/sandserifcomics/)
 </center><br>
 <p>While the above image is <a class="reference external" href="https://towardsdatascience.com/no-machine-learning-is-not-just-glorified-statistics-26d3952234e3">hyperbolic</a>, learning about machine learning methods benefits from some basic grounding in statistics.
 Therefore, we will <em>quickly</em> introduce some basics of statistical modelling for data analysis before moving on to look at our traditional machine learning methods.</p>
@@ -367,7 +368,7 @@ Below, we read in and plot some <a class="reference internal" href="example.html
 <p>The aim is to model this as a Lorentzian funtion with some uniform background added (for simplicity we will ignore the resolution function).
 We can describe this mathematically as follows,</p>
 <div class="math notranslate nohighlight">
-\[ y = \frac{A}{\pi\gamma \big(1 + \frac{x - x_0}{\gamma}\big)^2} + b, \]</div>
+\[ y = \frac{A}{\pi\gamma \Big[1 + \big(\frac{x - x_0}{\gamma}\big)^2\Big]} + b, \]</div>
 <p>where, <span class="math notranslate nohighlight">\(A\)</span> is a scale factor, <span class="math notranslate nohighlight">\(\gamma\)</span> is half of the full width at half maximum, <span class="math notranslate nohighlight">\(x_0\)</span> is the peak centre, and <span class="math notranslate nohighlight">\(b\)</span> is the uniform background.
 Above, we have used <span class="math notranslate nohighlight">\(x\)</span> and <span class="math notranslate nohighlight">\(y\)</span> in lieu of <span class="math notranslate nohighlight">\(\hbar\omega\)</span> and <span class="math notranslate nohighlight">\(S(q, \omega)\)</span>.
 In order to use this function for analysis, we will write is as a Python function.</p>

diff --git a/likelihood.html b/likelihood.html
@@ -293,7 +293,7 @@
 <h1>Likelihood<a class="headerlink" href="#likelihood" title="Permalink to this headline">¶</a></h1>
 <p>We just looked at how the <code class="docutils literal notranslate"><span class="pre">scipy.optimize.curve_fit</span></code> function can be used to obtain the optimal parameters the agreement between some model and data.
 To achieve this, the <code class="docutils literal notranslate"><span class="pre">curve_fit</span></code> function is maximising the likelihood of the model to the data, <span class="math notranslate nohighlight">\(\mathcal{L}\big[\mathbf{D} | M(\mathbf{X})\big]\)</span>.
-For the specific case of Gaussian uncertainties, this may be called minimising the <span class="math notranslate nohighlight">\(\chi^2\)</span>-statisic.</p>
+For the specific case of Gaussian uncertainties, this may be called minimising the <span class="math notranslate nohighlight">\(\chi^2\)</span>-statistic.</p>
 <p>The likelihood, given the model <span class="math notranslate nohighlight">\(M\)</span> and a set of parameters <span class="math notranslate nohighlight">\(\mathbf{X}\)</span>, of the data <span class="math notranslate nohighlight">\(\mathbf{D}\)</span> where these data are assumed to have Gaussian uncertainties can be found as,</p>
 <div class="math notranslate nohighlight">
 \[ \ln\mathcal{L}\big[\mathbf{D} | M(\mathbf{X})\big] = -\frac{1}{2} \sum_n\Bigg({\bigg[\frac{y_n - M(\mathbf{X})}{\sigma_n}\bigg]^2 + \ln(2\pi\sigma_n)\Bigg)}, \]</div>

diff --git a/pca_exercise.html b/pca_exercise.html
@@ -391,7 +391,7 @@ We can use these three components to reconstruct our image with the help of an i
 </div>
 </div>
 <div class="cell_output docutils container">
-<div class="output text_plain highlight-myst-ansi notranslate"><div class="highlight"><pre><span></span>&lt;matplotlib.image.AxesImage at 0x7fd50d794650&gt;
+<div class="output text_plain highlight-myst-ansi notranslate"><div class="highlight"><pre><span></span>&lt;matplotlib.image.AxesImage at 0x7efff3c12810&gt;
 </pre></div>
 </div>
 <img alt="_images/pca_exercise_6_1.png" src="_images/pca_exercise_6_1.png" />

diff --git a/bayes_exercise.html b/bayes_exercise.html
@@ -339,11 +339,6 @@ Let’s first take a look at the data files, where hopefully see that as we incr
 </pre></div>
 </div>
 </div>
-<div class="cell_output docutils container">
-<div class="output stderr highlight-myst-ansi notranslate"><div class="highlight"><pre><span></span>Matplotlib is building the font cache; this may take a moment.
-</pre></div>
-</div>
-</div>
 </div>
 <div class="cell docutils container">
 <div class="cell_input docutils container">

diff --git a/_sources/likelihood.md b/_sources/likelihood.md
@@ -2,7 +2,7 @@
 
 We just looked at how the `scipy.optimize.curve_fit` function can be used to obtain the optimal parameters the agreement between some model and data.
 To achieve this, the `curve_fit` function is maximising the likelihood of the model to the data, $\mathcal{L}\big[\mathbf{D} | M(\mathbf{X})\big]$.
-For the specific case of Gaussian uncertainties, this may be called minimising the $\chi^2$-statisic.
+For the specific case of Gaussian uncertainties, this may be called minimising the $\chi^2$-statistic.
 
 The likelihood, given the model $M$ and a set of parameters $\mathbf{X}$, of the data $\mathbf{D}$ where these data are assumed to have Gaussian uncertainties can be found as,
 
